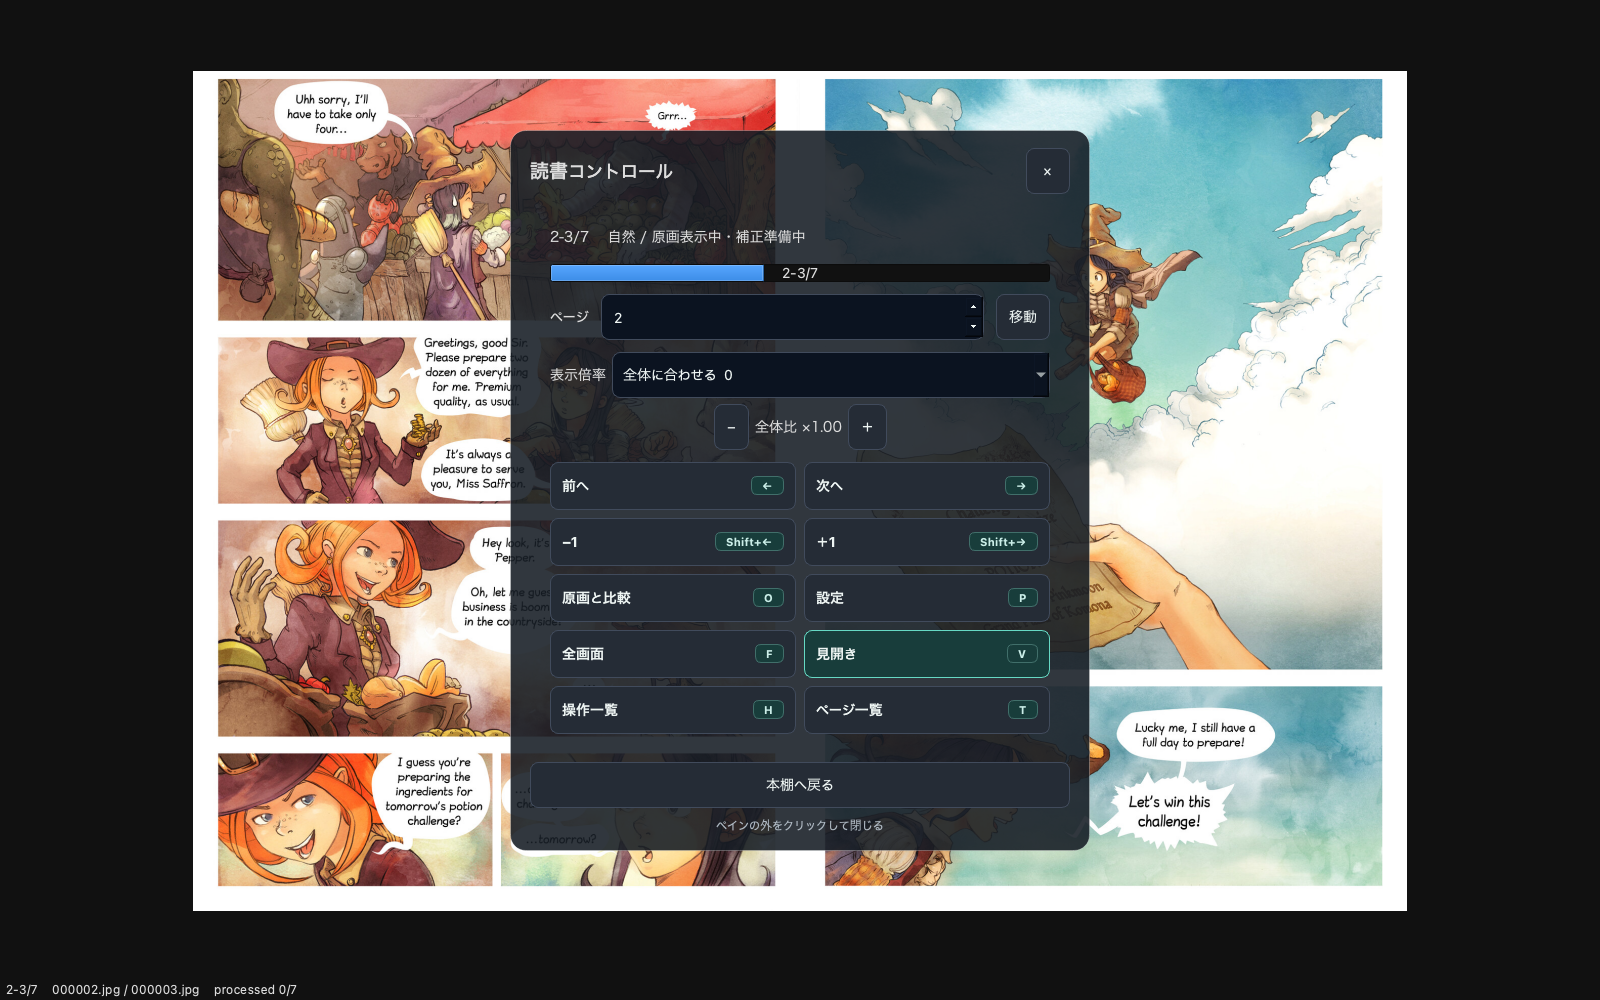
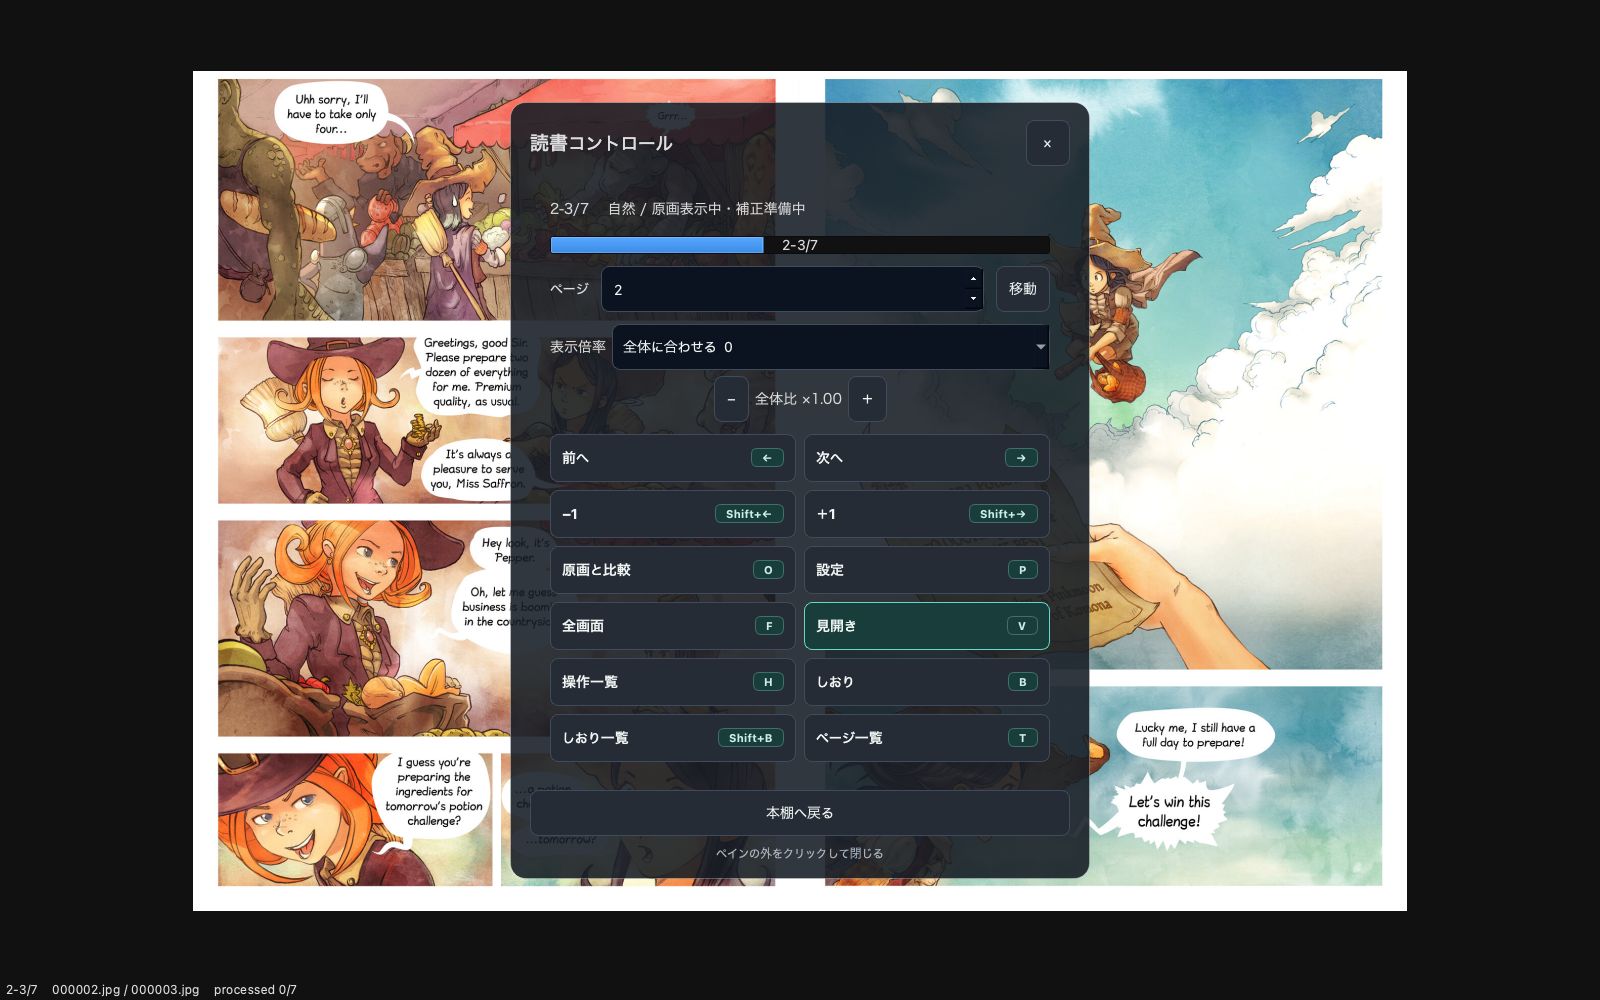
Show bookmark controls in UI gallery

Changed region(s): [[0.3125, 0.093, 0.6875, 0.899], [0.3438, 0.434, 0.4062, 0.744], [0.5938, 0.434, 0.6562, 0.744]]

diff --git a/scripts/capture_readme_screenshots.py b/scripts/capture_readme_screenshots.py
@@ -14,6 +14,7 @@ sys.path.insert(0, str(REPOSITORY_ROOT / "src"))
 
 from PySide6.QtWidgets import QApplication
 
+import mangacrisp_app.viewer as viewer_module
 from mangacrisp_app.bookshelf import BookshelfWindow
 from mangacrisp_app.i18n import set_language
 from mangacrisp_app.library import LibraryPaths, LibraryService, save_library_settings
@@ -71,6 +72,11 @@ def capture(demo_dir: Path, output_dir: Path, language: str = "en") -> None:
                 for path in Path(selected.local_path).glob("*")
                 if path.suffix.lower() in {".png", ".jpg", ".jpeg", ".webp"}
             )
+            # Keep this gallery run completely independent from the developer's
+            # normal correction and display caches.  SpreadWindow looks up
+            # these module globals when it creates its disk caches.
+            viewer_module.DEFAULT_UPSCALE_DIR = paths.cache_dir / "upscale"
+            viewer_module.DISPLAY_CACHE_DIR = viewer_module.DEFAULT_UPSCALE_DIR / "display_cache"
             reader = SpreadWindow(
                 pages=pages,
                 title=selected.title,
@@ -78,6 +84,11 @@ def capture(demo_dir: Path, output_dir: Path, language: str = "en") -> None:
                 spread_order="ltr",
                 cover_single=False,
                 auto_prefetch=False,
+                bookmark_callback=lambda page_index: bookshelf.add_bookmark(selected.id, page_index),
+                bookmarks_provider=lambda: library.bookmarks.list_for_book(selected.id),
+                bookmark_delete_callback=lambda bookmark_id: bookshelf.delete_bookmark(
+                    selected.id, bookmark_id
+                ),
                 settings_path=paths.settings_path,
             )
             reader.index = min(1, max(0, len(pages) - 2))
